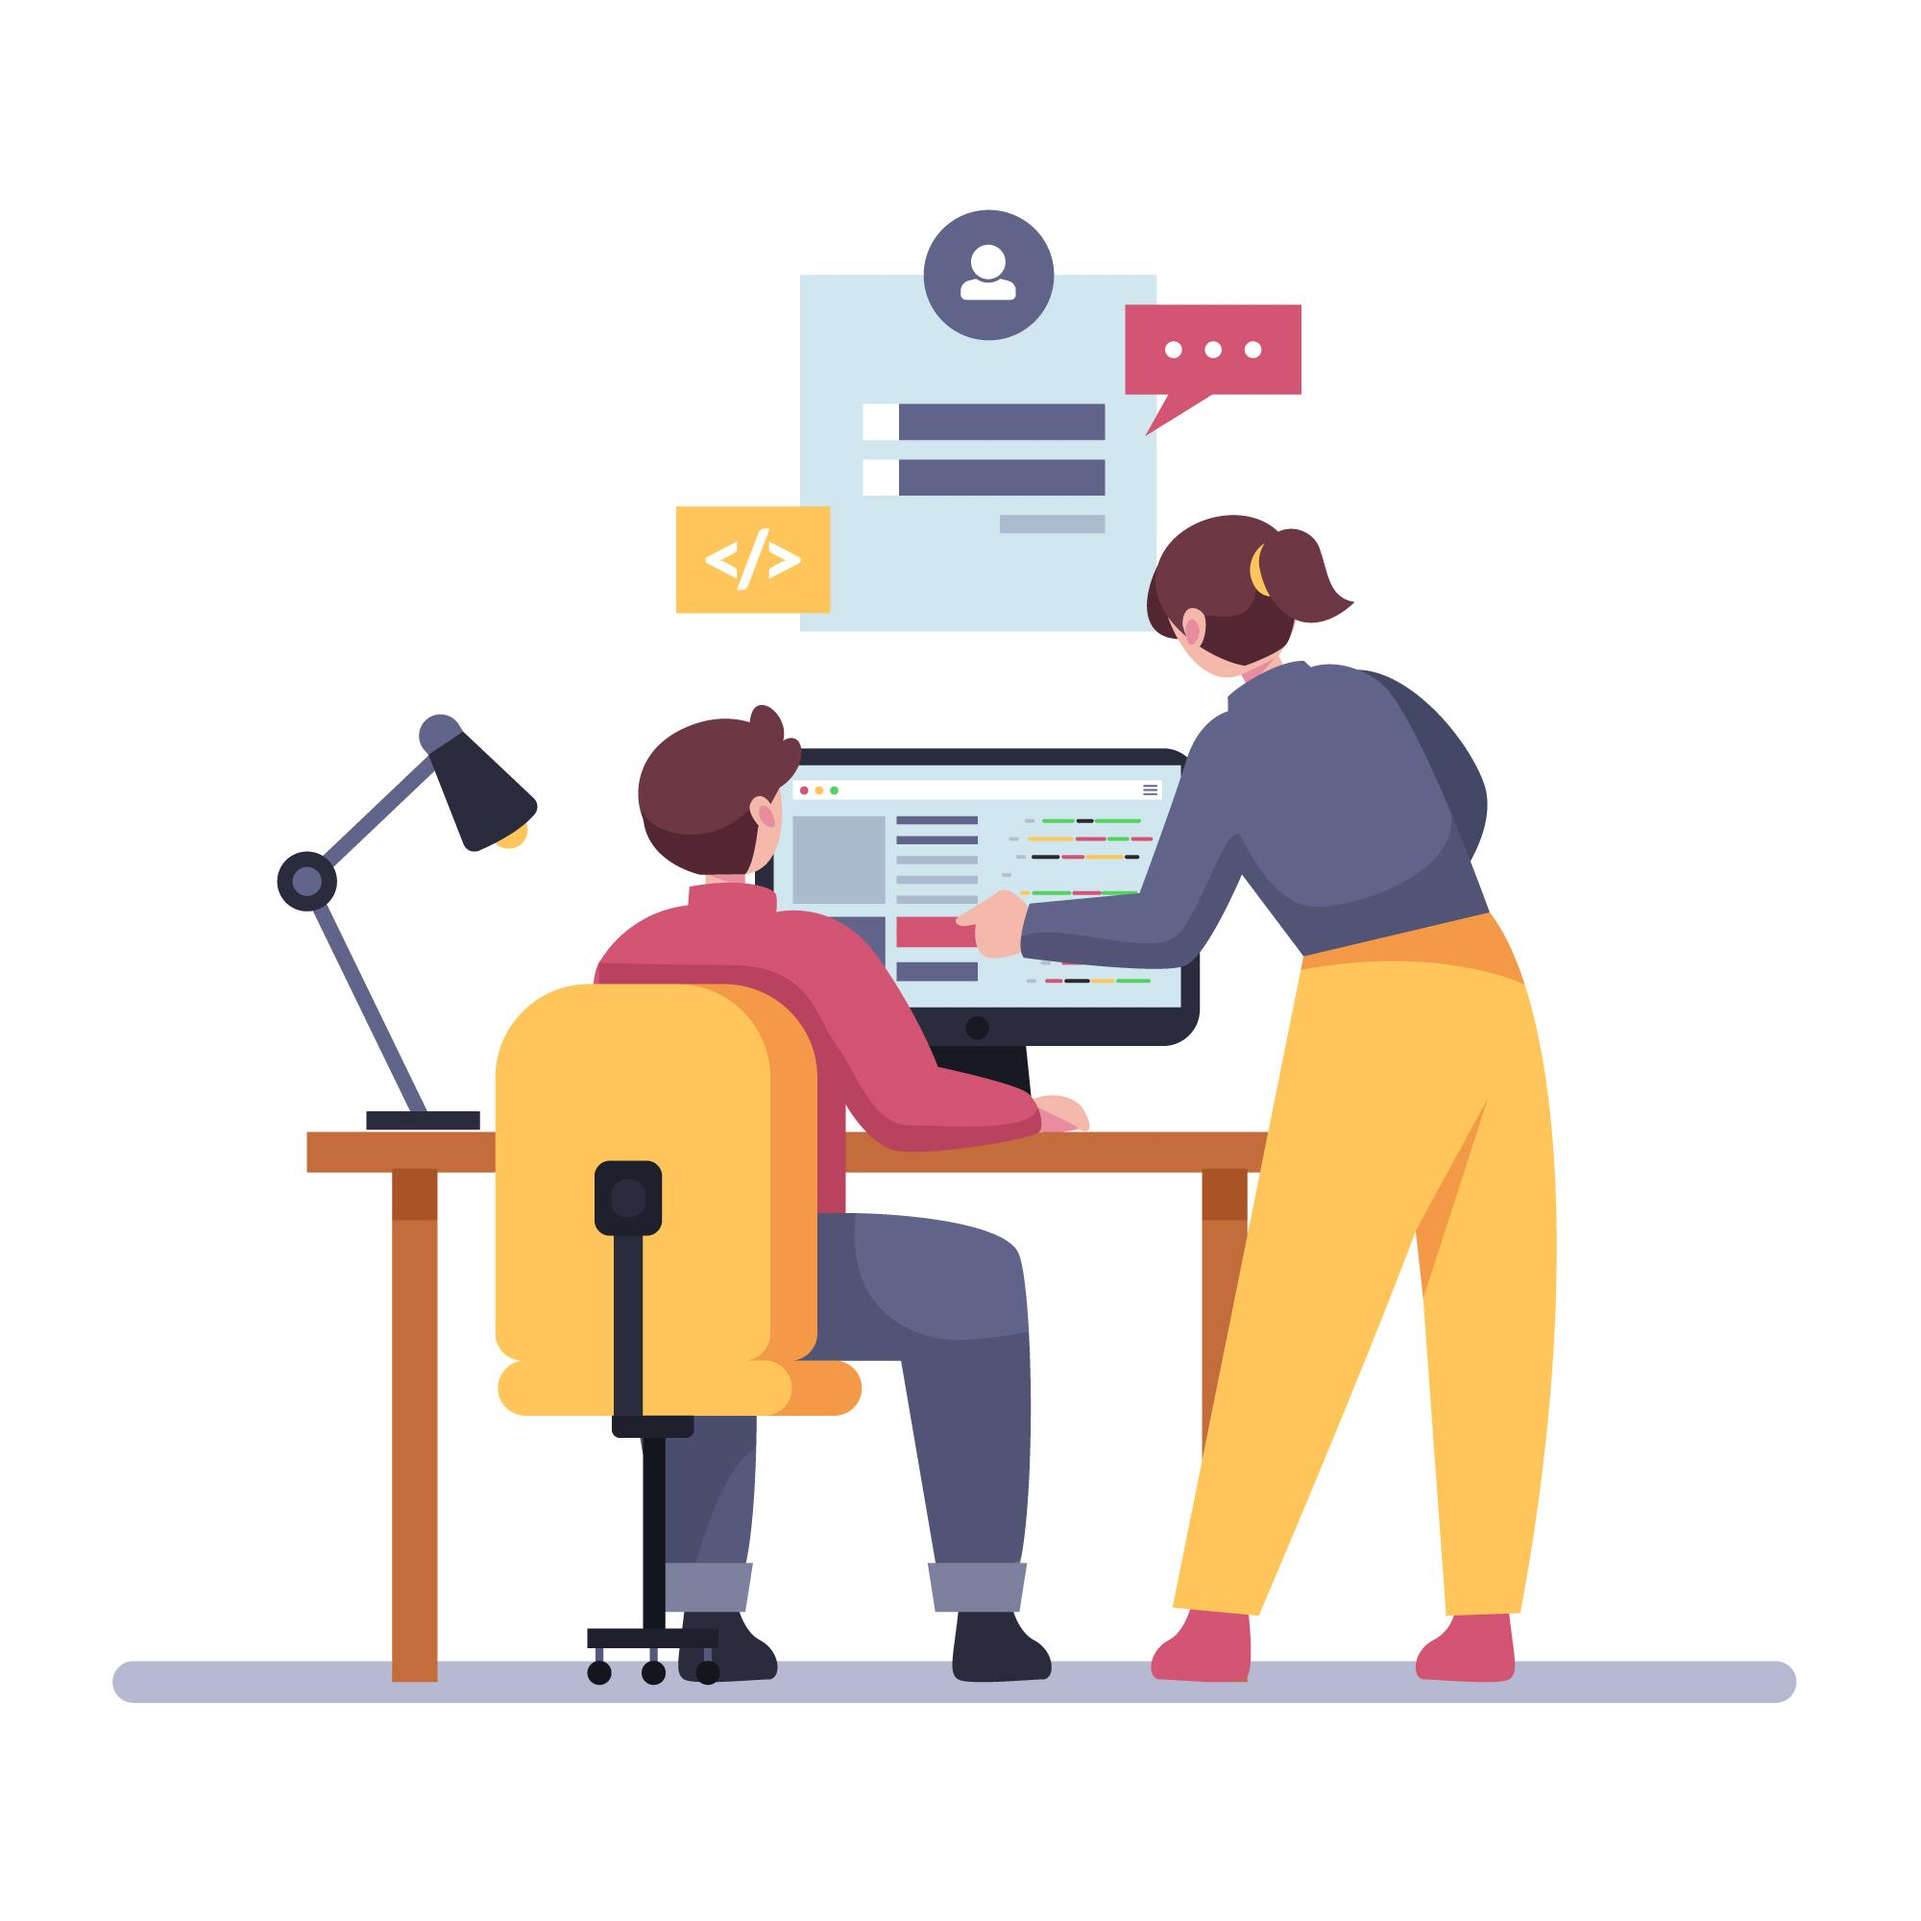
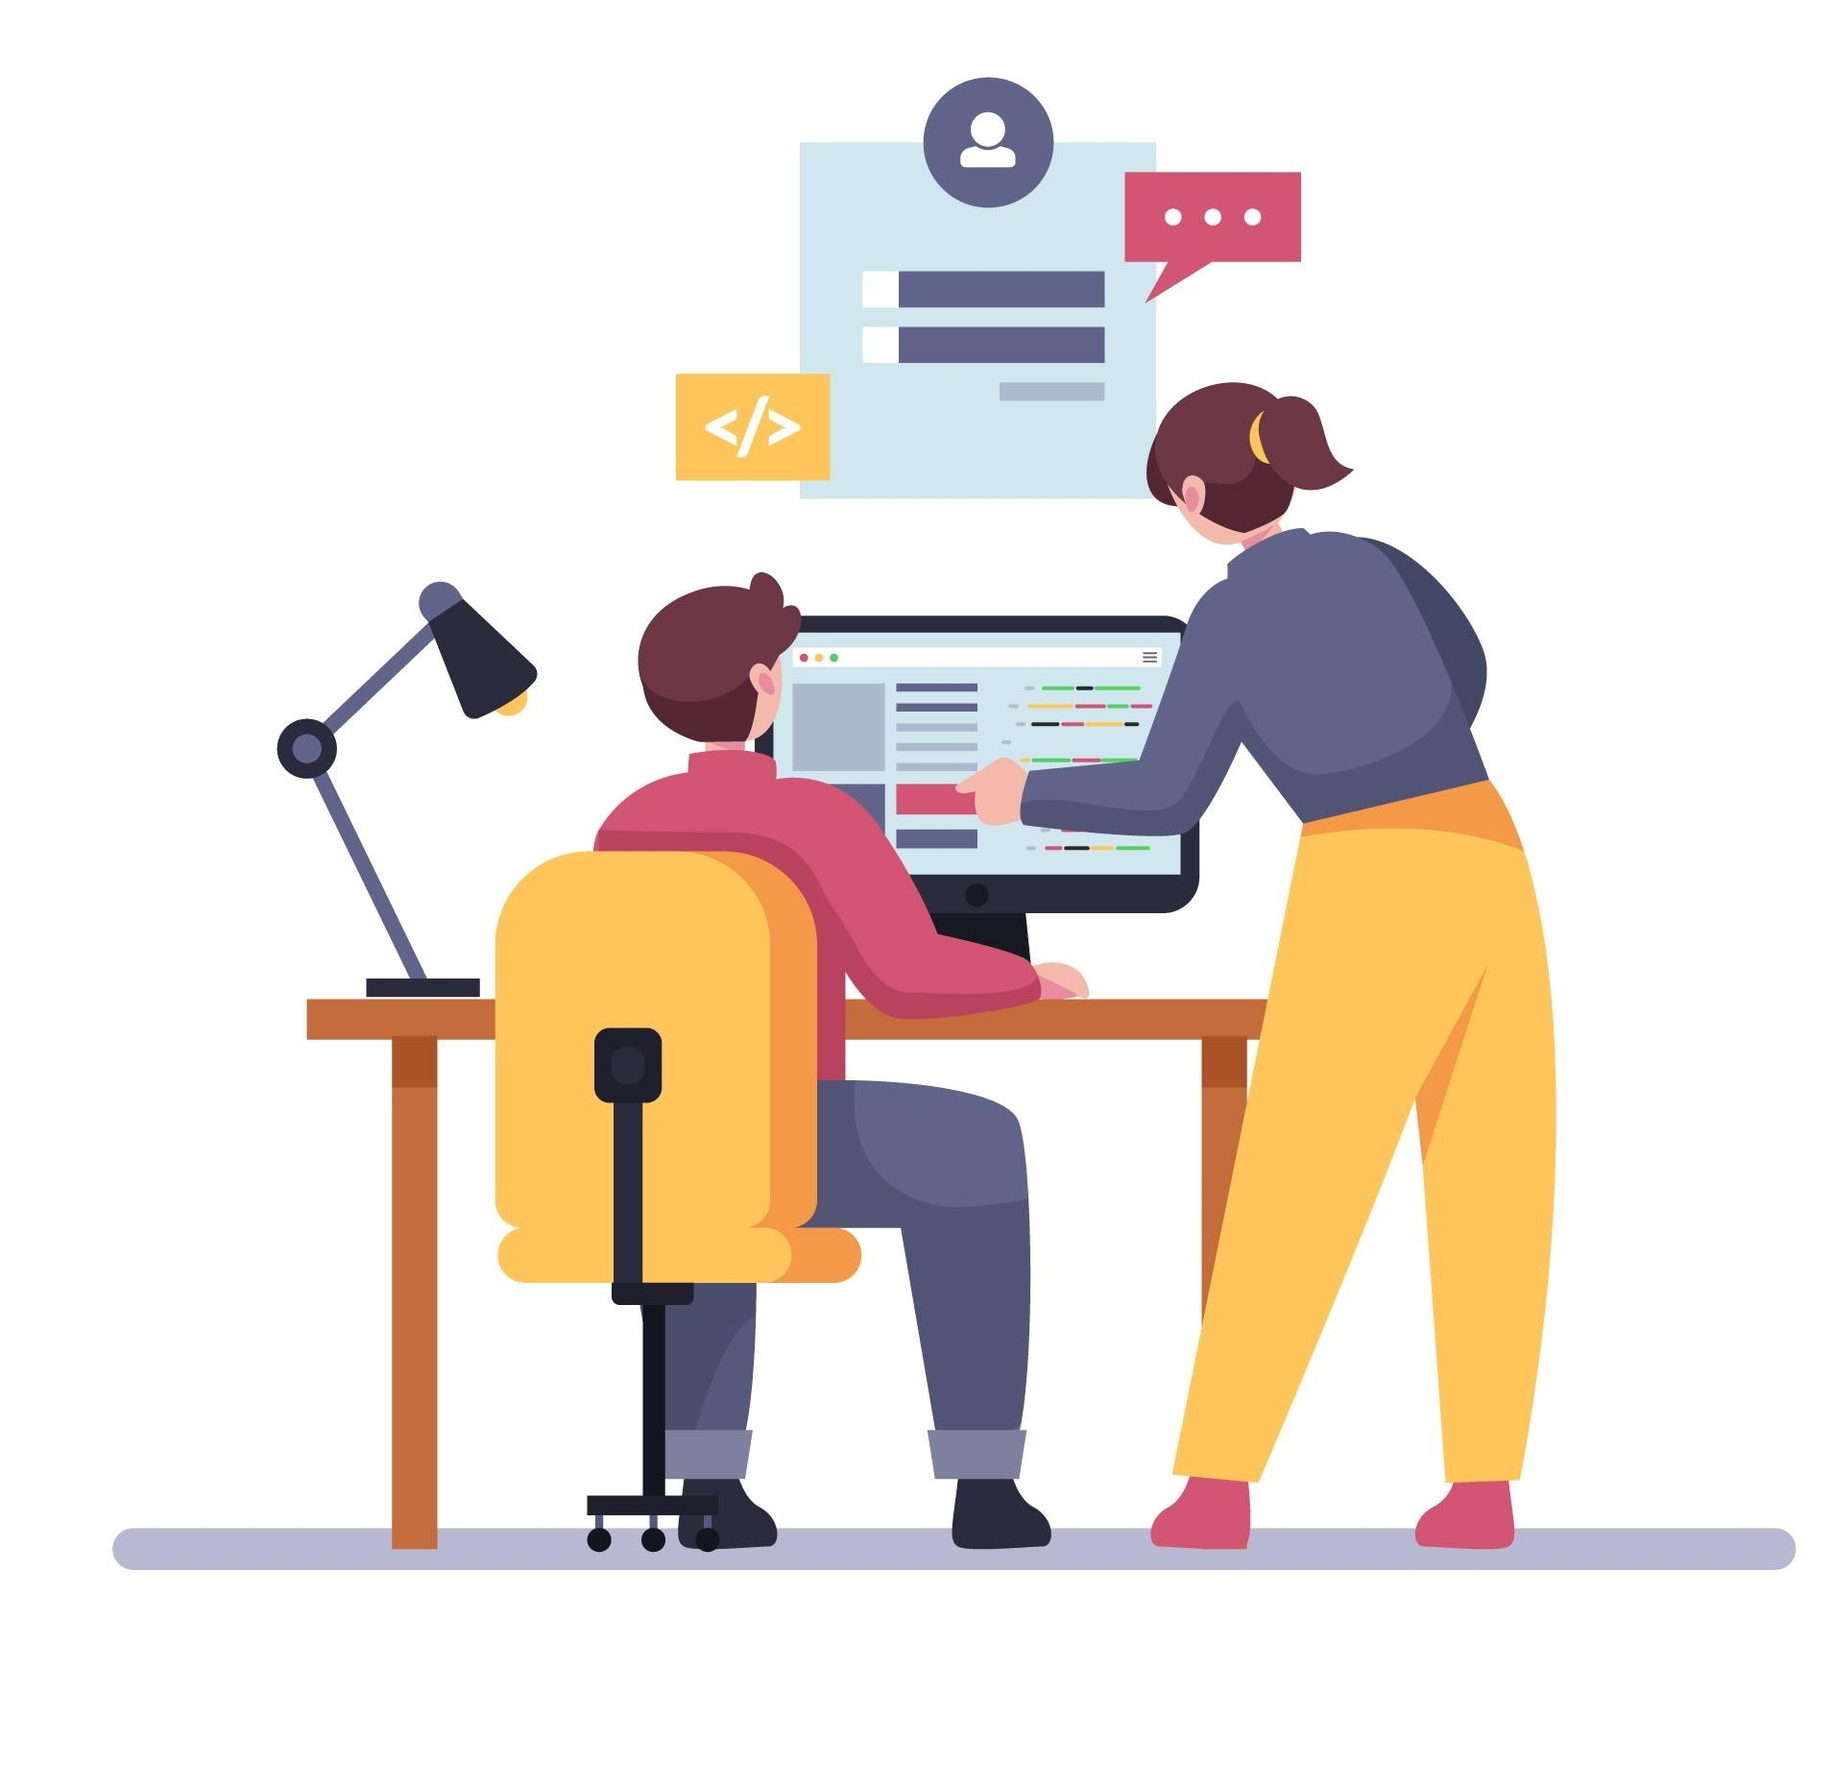
changing layout

Changed region(s): [[0.0618, 0.0311, 0.989, 0.9033]]

diff --git a/src/App.tsx b/src/App.tsx
@@ -18,80 +18,53 @@ function App() {
   const [showWork, setShowWork] = useState("");
 
   return (
-    <div>
-      <header>
-        <Navigation />
-        <div className="p-3 p-sm-5 bg-image align-items-center">
-          <div className="col-lg-7 col-md-9">
-            <HeroImage />
+    <header>
+      <Navigation />
+      <div className="p-3 p-sm-5 bg-image">
+        <div className="col-lg-7 col-md-9">
+          <HeroImage />
+        </div>
+
+        <div className="mt-5 col-lg-7 col-md-9">
+          <h3 className="text-start mb-3 fs-3">Latest Works</h3>
+          <div className="row g-1 g-sm-4 row-cols-3">
+            <WorkPreview
+              imageSource="rentcalc-main2.png"
+              linkSource={() =>
+                showWork === "first" ? setShowWork("") : setShowWork("first")
+              }
+              imageAlt="Partial image of the main window for the rent estimator application"
+            />
+
+            <WorkPreview
+              imageSource="debts-table.png"
+              linkSource={() =>
+                showWork === "second" ? setShowWork("") : setShowWork("second")
+              }
+              imageAlt=""
+            />
+            <WorkPreview
+              imageSource="https://placehold.co/60x45"
+              linkSource={() =>
+                showWork === "third" ? setShowWork("") : setShowWork("third")
+              }
+              imageAlt=""
+            />
           </div>
-
-          <div className="row">
-            <div className="mt-5 col-lg-7 col-md-9">
-              <h3 className="text-start mb-3 fs-2">Latest Works</h3>
-              <div className="row g-1 g-sm-4 row-cols-3">
-                <WorkPreview
-                  imageSource="rentcalc-main2.png"
-                  linkSource={() =>
-                    showWork === "first"
-                      ? setShowWork("")
-                      : setShowWork("first")
-                  }
-                  imageAlt="Partial image of the main window for the rent estimator application"
-                />
-
-                <WorkPreview
-                  imageSource="debts-table.png"
-                  linkSource={() =>
-                    showWork === "second"
-                      ? setShowWork("")
-                      : setShowWork("second")
-                  }
-                  imageAlt=""
-                />
-                <WorkPreview
-                  imageSource="https://placehold.co/60x70"
-                  linkSource={() =>
-                    showWork === "third"
-                      ? setShowWork("")
-                      : setShowWork("third")
-                  }
-                  imageAlt=""
-                />
-              </div>
-              <div className="row g-0 mb-4 row-cols-3 title-color fs-2 text-center">
-                <div>
-                  {showWork === "first" && (
-                    <FontAwesomeIcon icon={faAnglesDown} />
-                  )}
-                </div>
-                <div>
-                  {showWork === "second" && (
-                    <FontAwesomeIcon icon={faAnglesDown} />
-                  )}
-                </div>
-                <div>
-                  {showWork === "third" && (
-                    <FontAwesomeIcon icon={faAnglesDown} />
-                  )}
-                </div>
-              </div>
+          <div className="row g-0 mb-4 row-cols-3 title-color fs-2 text-center">
+            <div>
+              {showWork === "first" && <FontAwesomeIcon icon={faAnglesDown} />}
+            </div>
+            <div>
+              {showWork === "second" && <FontAwesomeIcon icon={faAnglesDown} />}
+            </div>
+            <div>
+              {showWork === "third" && <FontAwesomeIcon icon={faAnglesDown} />}
             </div>
           </div>
         </div>
-      </header>
-
-      {showWork === "first" && (
-        <>
-          <div className="zigzag"></div>
-          <WorkShowcase />
-        </>
-      )}
-
-      {showWork === "second" && null}
-
-      {showWork === "third" && null}
-    </div>
+      </div>
+    </header>
   );
 }
 

diff --git a/src/components/HeroImage.tsx b/src/components/HeroImage.tsx
@@ -6,9 +6,9 @@ function HeroImage() {
     <section className="herosection">
       <div className="card border-0 bg-transparent w-75">
         <div className="card-body p-0">
-          <h2 className="card-title fs-2 lh-1 mb-2">
+          <h2 className="card-title fs-3 lh-1 mb-2">
             Hello, I'm Dianne M. De Jesús a{" "}
-            <span className="fs-1 fw-bolder title-color">
+            <span className="fs-2 fw-bolder title-color">
               {"{ Software Developer }"}
             </span>
           </h2>
@@ -18,11 +18,11 @@ function HeroImage() {
             established time-frame.
           </p>
           <div className="mt-5">
-            <a href="#" className="fs-3 me-2 py-3 px-5 btn button-theme">
+            <a href="#" className="fs-4 me-2 py-2 px-5 btn button-theme">
               Hire Me
             </a>
 
-            <a href="#" className="link-dark btn fs-5">
+            <a href="#" className="link-dark btn fs-6">
               Or let's connect
             </a>
           </div>

diff --git a/src/components/custom.css b/src/components/custom.css
@@ -1,9 +1,9 @@
 .bg-image {
-  background: url(/Teamprogrammers.jpg) no-repeat right top;
+  background: url(/4882464.jpg) no-repeat right top;
   -webkit-background-size: contain;
   -moz-background-size: contain;
   -o-background-size: contain;
-  background-size: 80%;
+  background-size: contain;
 }
 
 h2,
@@ -26,10 +26,6 @@ a.button-theme:hover {
   background-color: rgb(255, 244, 212);
 }
 
-.word-highlight {
-  color: rgb(255, 96, 80);
-}
-
 @media (max-width: 768px) {
   .bg-image {
     background: none;
@@ -49,7 +45,7 @@ a.button-theme:hover {
     opacity: 0.1;
     z-index: -1;
 
-    background: url(/Teamprogrammers.jpg) no-repeat right center;
+    background: url(/4882464.jpg) no-repeat right center;
     -webkit-background-size: contain;
     -moz-background-size: contain;
     -o-background-size: contain;
